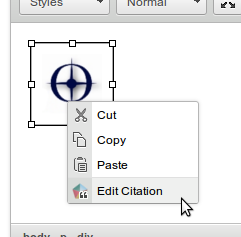
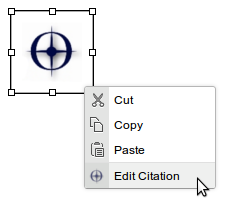
Fix solo-citation images

Changed region(s): [[0.0308, 0.0, 1.0, 1.0]]

diff --git a/solo-citation.html b/solo-citation.html
@@ -8,7 +8,7 @@
   <ol>
     <li>
       <p>Click on the SOLO Citation icon.</p>
-      <p><img src="images/solo-citation/show-icon.png"/></p>
+      <p class="icon"><img src="https://rawgit.com/ox-it/wl-ck-plugins/master/solo-citation/icons/solo-citation.png"/></p>
     </li>
     <li>
       <p>
@@ -30,7 +30,7 @@
       <p>
         Click the desired item and it will be embedded at the cursor positon.
       </p>
-      <p><img src="images/solo-citation/embed.png"/></p>
+      <p class="placeholder"><img src="https://rawgit.com/ox-it/wl-ck-plugins/master/solo-citation/icons/placeholder.png"/></p>
     </li>
     <li>
       <p>
